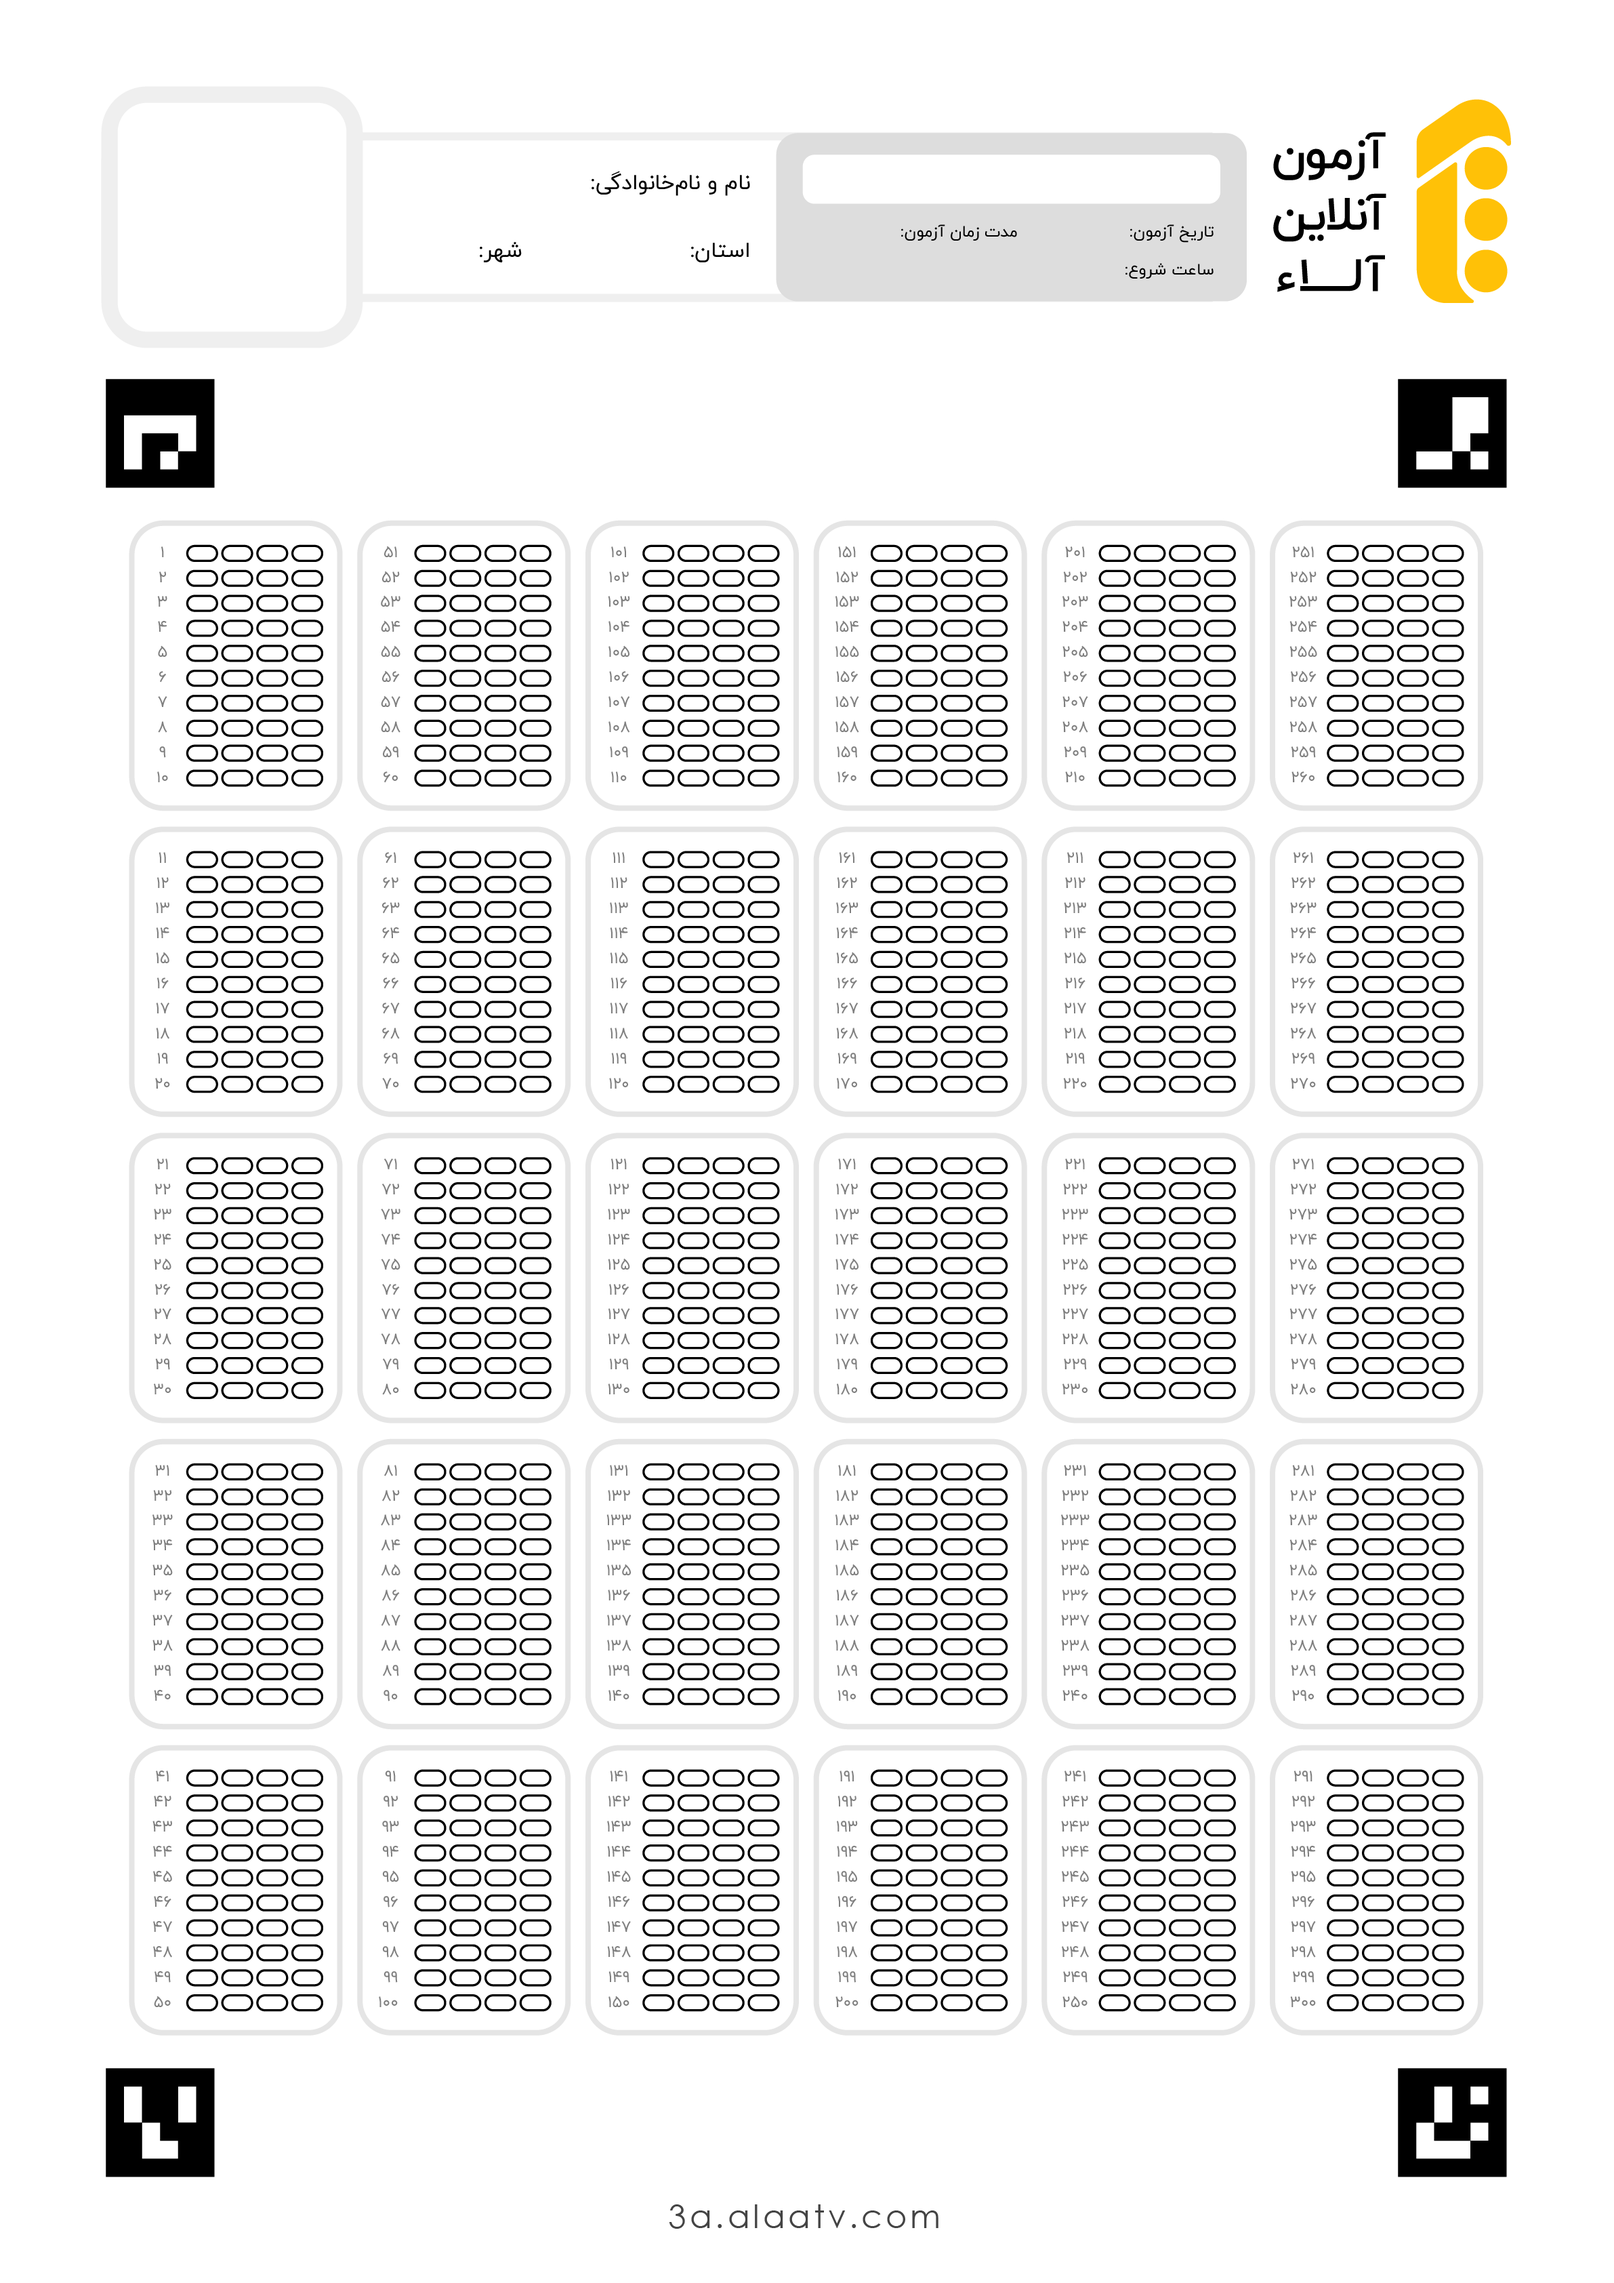
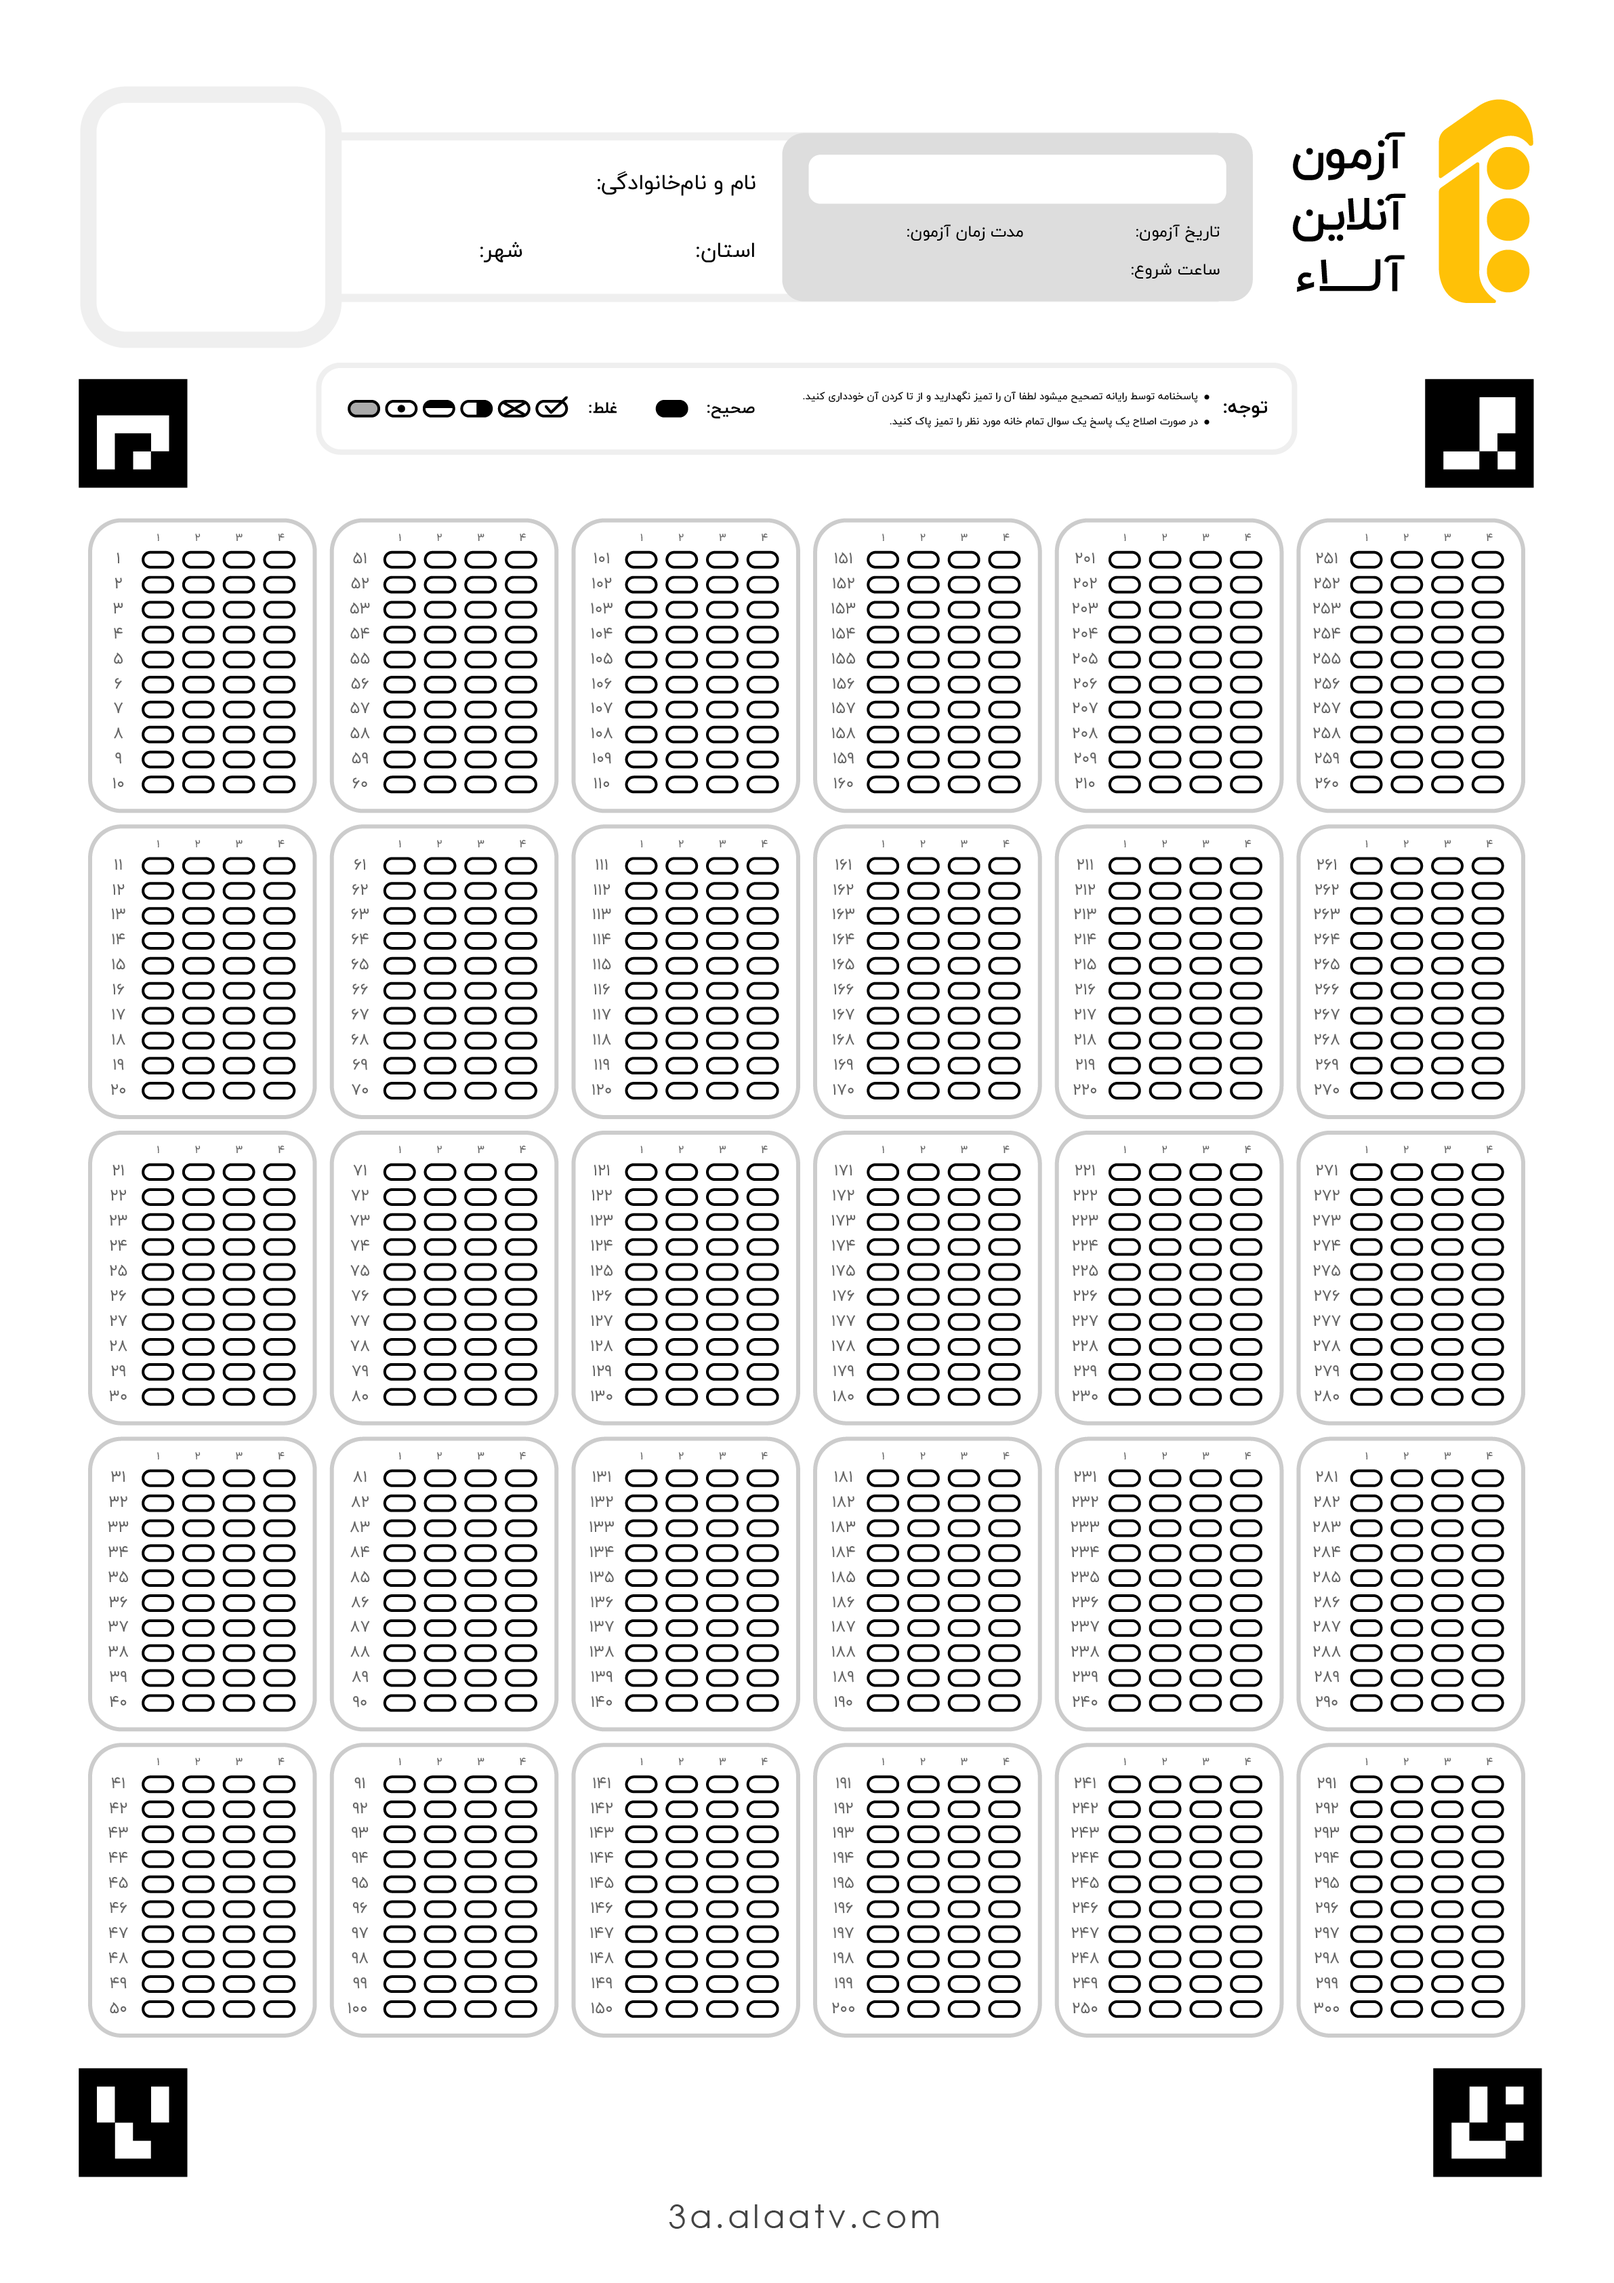
make project work with jpg instead of png

diff --git a/v1.py b/v1.py
@@ -208,8 +208,8 @@ async def generate(request: web.Request) -> web.Response:
         QRCODE_X_OFFSET:QRCODE_X_OFFSET + open_cv_qr_image.shape[1]] = open_cv_qr_image
 
         # write qrcode to memory and add it to zip file
-        retval, buffer = cv2.imencode('.png', sheet)
-        zip_file.writestr(f'{i}.png', buffer)
+        retval, buffer = cv2.imencode('.jpg', sheet)
+        zip_file.writestr(f'{i}.jpg', buffer)
 
     # Close the zip file
     zip_file.close()
@@ -248,9 +248,12 @@ async def detect(request: web.Request) -> web.Response:
         # initialize the cv2 QRCode detector
         detector = cv2.QRCodeDetector()
         # detect and decode
-        data, vertices_array, binary_qrcode = detector.detectAndDecode(image)
+        temp = cv2.cvtColor(image, cv2.COLOR_RGB2GRAY)
+        frame_tresh = cv2.adaptiveThreshold(temp, 255, cv2.ADAPTIVE_THRESH_GAUSSIAN_C, cv2.THRESH_BINARY, 95,
+                                                 7)
+        data, vertices_array, binary_qrcode = detector.detectAndDecode(frame_tresh)
         # if there is a QR code
-        if vertices_array is not None and len(data) is not 0:
+        if vertices_array is not None and len(data) != 0:
             status = 200
             text = data
         else:

diff --git a/helper.py b/helper.py
@@ -177,7 +177,7 @@ class BubbleReader:
         keypoints = keypoints_filled + keypoints_empty
         number_of_valid_keypoints = self.BUBBLE_PER_QUESTION * self.QUESTION_ROWS * self.QUESTION_COLUMNS
         if len(keypoints) != number_of_valid_keypoints:
-            raise Exception("number of keypoints not valid")
+            raise Exception(f"number of keypoints not valid. found {len(keypoints)}")
 
         return keypoints, keypoints_filled, keypoints_empty
 

diff --git a/constants.py b/constants.py
@@ -8,10 +8,11 @@ REDIS_HOST = os.getenv('REDIS_HOST', 'localhost')
 REDIS_PORT = int(os.getenv('REDIS_PORT', '6379'))
 REDIS_DB = int(os.getenv('REDIS_DB', '15'))
 
+# only place where png is allowed
 SHEET_PLAIN = 'sample images/original.png'
-SHEET_TEST = 'sample images/alaa.png'
+SHEET_TEST = 'sample images/test.jpg'
 
-QRCODE_X_OFFSET = 188
+QRCODE_X_OFFSET = 155
 QRCODE_Y_OFFSET = 165
 QRCODE_SIZE = 310
 
